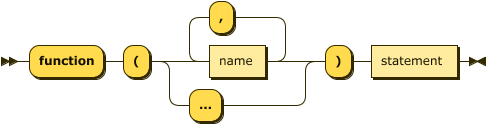
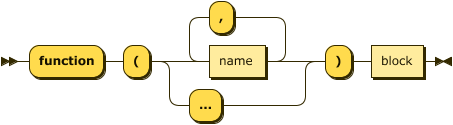
Replaced switch case statement with if elif else

Changed region(s): [[0.0, 0.0, 1.0, 1.0], [0.5563, 0.12, 0.6181, 0.192], [0.6181, 0.144, 0.649, 0.216]]

diff --git a/libot/src/compiler.cpp b/libot/src/compiler.cpp
@@ -1152,29 +1152,33 @@ void OtCompiler::forStatement(OtCode code) {
 //
 
 void OtCompiler::ifStatement(OtCode code) {
-	scanner.expect(OtScanner::IF_TOKEN);
+	std::vector<size_t> patches;
 
-	if (expression(code)) {
-		code->method("__deref__", 0);
+	while (scanner.matchToken(OtScanner::IF_TOKEN) || scanner.matchToken(OtScanner::ELIF_TOKEN)) {
+		scanner.advance();
+
+		if (expression(code)) {
+			code->method("__deref__", 0);
+		}
+
+		size_t offset = code->size();
+		code->jumpFalse(0);
+
+		block(code);
+
+		patches.push_back(code->size());
+		code->jump(0);
+		code->patch(offset);
 	}
-
-	size_t offset1 = code->size();
-	code->jumpFalse(0);
-
-	block(code);
 
 	if (scanner.matchToken(OtScanner::ELSE_TOKEN)) {
 		scanner.advance();
 
-		size_t offset2 = code->size();
-		code->jump(0);
-
-		code->patch(offset1);
 		block(code);
-		code->patch(offset2);
+	}
 
-	} else {
-		code->patch(offset1);
+	for (auto const& patch : patches) {
+		code->patch(patch);
 	}
 }
 
@@ -1196,58 +1200,7 @@ void OtCompiler::returnStatement(OtCode code) {
 
 
 //
-//	OtCompiler::switchStatement
-//
-
-void OtCompiler::switchStatement(OtCode code) {
-	std::vector<size_t> patches;
-
-	scanner.expect(OtScanner::SWITCH_TOKEN);
-
-	if (expression(code)) {
-		code->method("__deref__", 0);
-	}
-
-	scanner.expect(OtScanner::LBRACE_TOKEN);
-
-	while (scanner.matchToken(OtScanner::CASE_TOKEN)) {
-		scanner.advance();
-		code->dup();
-
-		if (expression(code)) {
-			code->method("__deref__", 0);
-		}
-
-		code->method("__eq__", 1);
-
-		size_t offset1 = code->size();
-		code->jumpFalse(0);
-
-		statement(code);
-
-		patches.push_back(code->size());
-		code->jump(0);
-
-		code->patch(offset1);
-	}
-
-	if (scanner.matchToken(OtScanner::DEFAULT_TOKEN)) {
-		scanner.advance();
-		statement(code);
-	}
-
-	scanner.expect(OtScanner::RBRACE_TOKEN);
-
-	for (auto const& patch : patches) {
-		code->patch(patch);
-	}
-
-	code->pop();
-}
-
-
-//
-// OtHttpNotFound
+//	OtThrowClass
 //
 
 class OtThrowClass;
@@ -1387,10 +1340,6 @@ void OtCompiler::statement(OtCode code) {
 
 		case OtScanner::RETURN_TOKEN:
 			returnStatement(code);
-			break;
-
-		case OtScanner::SWITCH_TOKEN:
-			switchStatement(code);
 			break;
 
 		case OtScanner::THROW_TOKEN:

diff --git a/libot/src/scanner.cpp b/libot/src/scanner.cpp
@@ -70,11 +70,10 @@ OtScanner::OtScanner() {
 	addToken("^=", BITWISE_XOR_ASSIGNMENT_TOKEN);
 	addToken("^", BITWISE_XOR_TOKEN);
 	addToken("~", BITWISE_NOT_TOKEN);
-	addToken("case", CASE_TOKEN);
 	addToken("catch", CATCH_TOKEN);
 	addToken("class", CLASS_TOKEN);
-	addToken("default", DEFAULT_TOKEN);
 	addToken("do", DO_TOKEN);
+	addToken("elif", ELIF_TOKEN);
 	addToken("else", ELSE_TOKEN);
 	addToken("for", FOR_TOKEN);
 	addToken("function", FUNCTION_TOKEN);
@@ -82,7 +81,6 @@ OtScanner::OtScanner() {
 	addToken("in", IN_TOKEN);
 	addToken("not", NOT_TOKEN);
 	addToken("return", RETURN_TOKEN);
-	addToken("switch", SWITCH_TOKEN);
 	addToken("throw", THROW_TOKEN);
 	addToken("try", TRY_TOKEN);
 	addToken("while", WHILE_TOKEN);

diff --git a/libot/include/ot/scanner.h b/libot/include/ot/scanner.h
@@ -91,11 +91,10 @@ public:
 
 		ELLIPSIS_TOKEN,
 
-		CASE_TOKEN,
 		CATCH_TOKEN,
 		CLASS_TOKEN,
-		DEFAULT_TOKEN,
 		DO_TOKEN,
+		ELIF_TOKEN,
 		ELSE_TOKEN,
 		FOR_TOKEN,
 		FUNCTION_TOKEN,
@@ -103,7 +102,6 @@ public:
 		IN_TOKEN,
 		NOT_TOKEN,
 		RETURN_TOKEN,
-		SWITCH_TOKEN,
 		THROW_TOKEN,
 		TRY_TOKEN,
 		WHILE_TOKEN

diff --git a/docs/Overview.md b/docs/Overview.md
@@ -35,7 +35,7 @@ that are derived from the
 [String](reference/String.md) and [Function](reference/Function.md)
 classes. The following statements assign primitive values to variables.
 
-	a = null;
+    a = null;
     b = true;
     c = 1;
     d = 3.14 * 2;
@@ -103,19 +103,19 @@ of an array.
     array1 = [ 1, 2, "test", 7 + 4, a ];
     array2 = Array(3.14, 7, 34, 1);
 
-	array1.append("new value");
-	thirdValue = array1[3];
+    array1.append("new value");
+    thirdValue = array1[3];
 
 [Dictionaries](reference/Dict.md) contain indexed key/value pairs that
 are constructed using curly brackets ({}) or through the Dict class
 constructor. The Dict class also has many methods to manipulate the
 content of a dictionary.
 
-	dict1 = [ "First Name": "John", "Last Name": "Doe", "Age": 34 };
-	dict2 = Dict("Name", "John Doe", "Address", "Unknown");
+    dict1 = [ "First Name": "John", "Last Name": "Doe", "Age": 34 };
+    dict2 = Dict("Name", "John Doe", "Address", "Unknown");
 
-	dict1["Last Update"] = "1 Apr 2000";
-	name = dict2["Name"];
+    dict1["Last Update"] = "1 Apr 2000";
+    name = dict2["Name"];
 
 Both arrays and dictionaries follow JSON rules and the ObjectTalk
 compiler can therefore ingest JSON without any trouble.
@@ -124,9 +124,9 @@ with JSON encoding.
 
 ## Control Flow
 
-ObjectTalk uses **if** and **switch** to make conditionals and use
-**for in**, **while** and **do while** to make loops.
-Parentheses around the condition or loop variable are optional. Braces around the body are required.
+ObjectTalk uses **if** to make conditionals and uses **for in**,
+**while** and **do while** to make loops. Parentheses around the
+condition or loop variable are optional. Braces around the body are required.
 
     individualScores = [75, 43, 103, 87, 12];
     teamScore = 0;
@@ -157,14 +157,14 @@ a try block, your script will terminate.
 A simple example might look like:
 
     try {
-    	a = 1;
-    	b = 2;
-    	print(c);
-    	d = 4;
+        a = 1;
+        b = 2;
+        print(c);
+        d = 4;
 
     } catch error {
-    	print("Caught an exception:");
-    	print(error);
+        print("Caught an exception:");
+        print(error);
     }
 
     print("Recovered from exception");
@@ -176,12 +176,12 @@ is used.
 Programmers can also use the **throw** command to raise an exception:
 
     try {
-    	throw "this is completely wrong";
+        throw "this is completely wrong";
 
     } catch error {
-    	print("Caught an exception:");
-    	print(error);
-	}
+        print("Caught an exception:");
+        print(error);
+    }
 
 In the catch block, the error message is automatically assigned to
 the variable mentioned after the **catch** statement.

diff --git a/docs/Language.md b/docs/Language.md
@@ -15,23 +15,22 @@ for visualizing grammar.
 # statement
 ![Railroad Diagram](ebnf/statement.png)
 
-	statement ::= expression ";"
-	| block
-	| "class" name ":" expression block
-	| "function" name "(" (name ("," name)* | "...") ")" block
-	| "if" expression block ("else" block)?
-	| "while" expression block
-	| "do" block "while" expression ";"
-	| "for" name "in" expression block
-	| "switch" expression "{" ("case" expression statement)+ ("default" statement)? "}"
-	| "throw" expression ";"
-	| "try" block "catch" name block
-	| "return" expression ";"
+    statement ::= expression ";"
+    | block
+    | "class" name ":" expression block
+    | "function" name "(" (name ("," name)* | "...") ")" block
+    | "if" expression block ("elif" expression block)* ("else" block)?
+    | "while" expression block
+    | "do" block "while" expression ";"
+    | "for" name "in" expression block
+    | "throw" expression ";"
+    | "try" block "catch" name block
+    | "return" expression ";"
 
 # block
 ![Railroad Diagram](ebnf/block.png)
 
-    block ::= "{" statement+ "}"
+    block ::= "{" statement* "}"
 
 # expressions
 ![Railroad Diagram](ebnf/expressions.png)
@@ -41,8 +40,16 @@ for visualizing grammar.
 ## expression
 ![Railroad Diagram](ebnf/expression.png)
 
-    expression ::= conditional ("=" conditional | "*=" conditional | "/=" conditional | "%=" conditional |
-    "+=" conditional | "-=" conditional | "|=" conditional | "^=" conditional | "&=" conditional)*
+    expression ::= conditional (
+        "=" conditional |
+        "*=" conditional |
+        "/=" conditional |
+        "%=" conditional |
+        "+=" conditional |
+        "-=" conditional |
+        "|=" conditional |
+        "^=" conditional |
+        "&=" conditional)*
 
 ## conditional
 ![Railroad Diagram](ebnf/conditional.png)
@@ -82,7 +89,13 @@ for visualizing grammar.
 ## relation
 ![Railroad Diagram](ebnf/relation.png)
 
-    relation ::= shift ("<" shift | "<=" shift | ">" shift | ">=" shift | "in" shift | "not in" shift)*
+    relation ::= shift (
+        "<" shift |
+        "<=" shift |
+        ">" shift |
+        ">=" shift |
+        "in" shift |
+        "not in" shift)*
 
 ## shift
 ![Railroad Diagram](ebnf/shift.png)
@@ -138,7 +151,7 @@ for visualizing grammar.
 
 ## function
 ![Railroad Diagram](ebnf/function.png)
-    function ::= "function" "(" (name ("," name)* | "...") ")" statement
+    function ::= "function" "(" (name ("," name)* | "...") ")" block
 
 ## name
 ![Railroad Diagram](ebnf/name.png)
